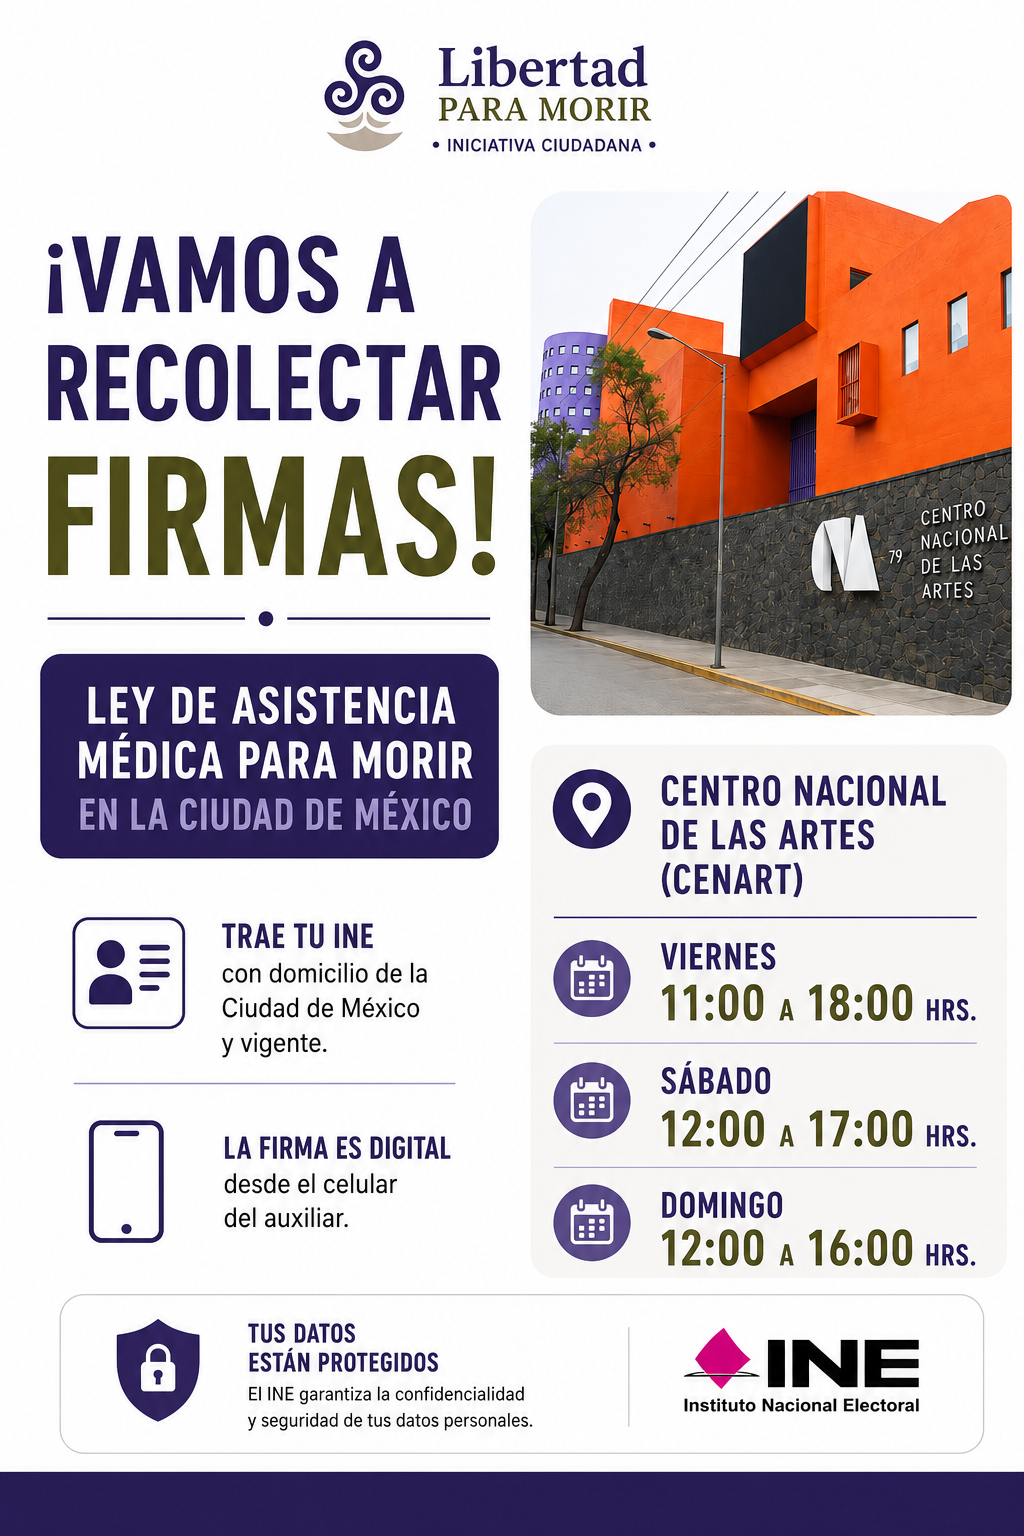
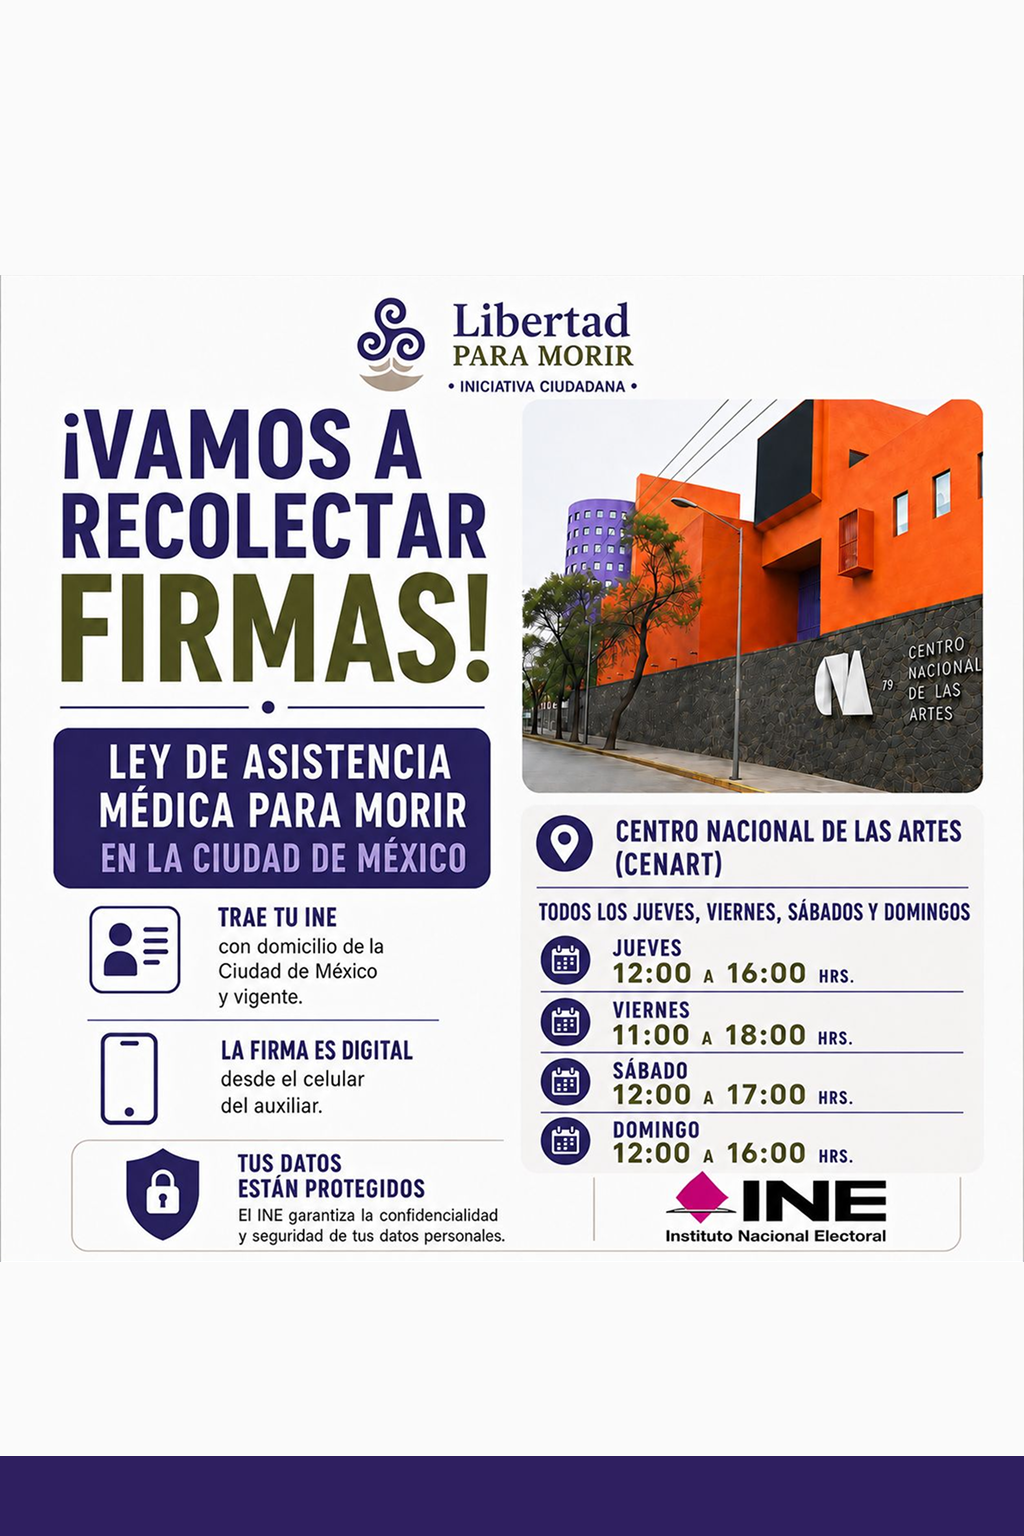
Updated sign posters

diff --git a/index.html b/index.html
@@ -182,7 +182,7 @@
                         <img src="img/Resources/CNA.png" alt="" style="width: 100%; max-width: none; height: 100%; object-fit: cover; border-radius: 16px; border: 2px solid black;">
                     </div>
                     <div class="img-container" style="display: flex; flex-direction: column;">                 
-                        <img src="img/Resources/Centro Médico.png" alt="" style="width: 100%; max-width: none; height: 100%; object-fit: cover; border-radius: 16px; border: 2px solid black;">
+                        <img src="img/Resources/CM.png" alt="" style="width: 100%; max-width: none; height: 100%; object-fit: cover; border-radius: 16px; border: 2px solid black;">
                     </div>
                     <div class="img-container" style="display: flex; flex-direction: column;">                 
                         <img src="img/Resources/Cineteca.png" alt="" style="width: 100%; max-width: none; height: 100%; object-fit: cover; border-radius: 16px; border: 2px solid black;">
